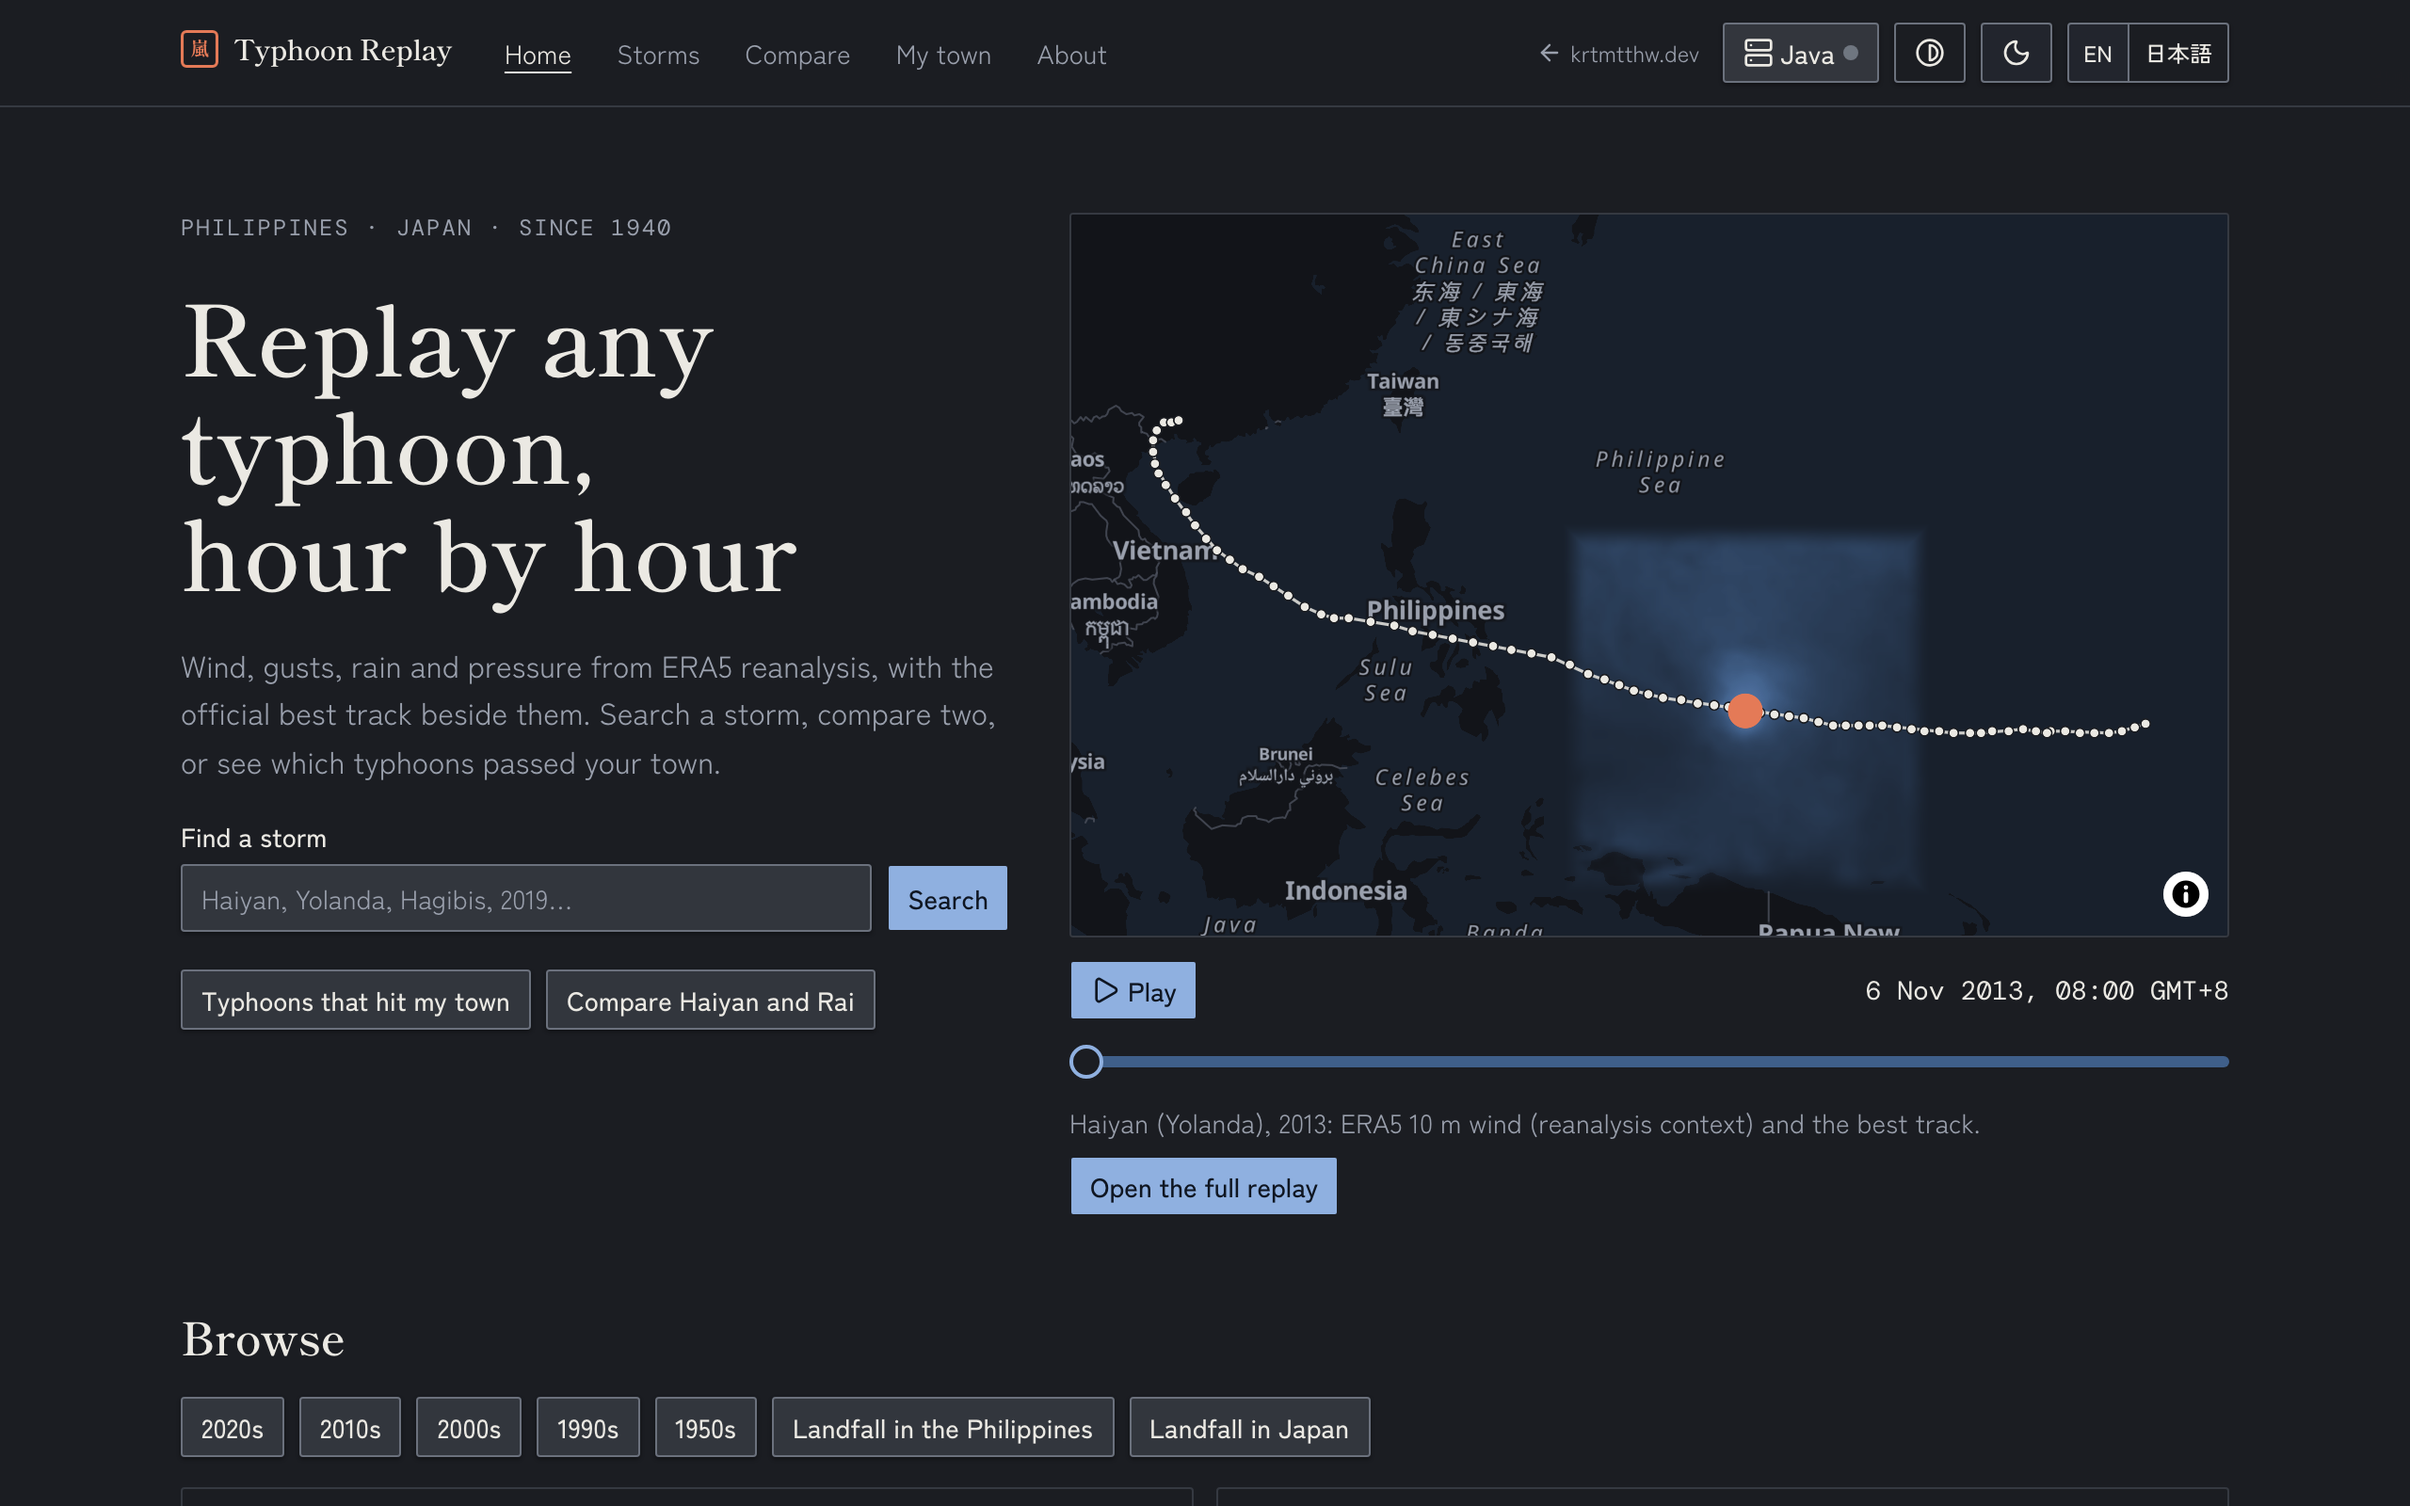
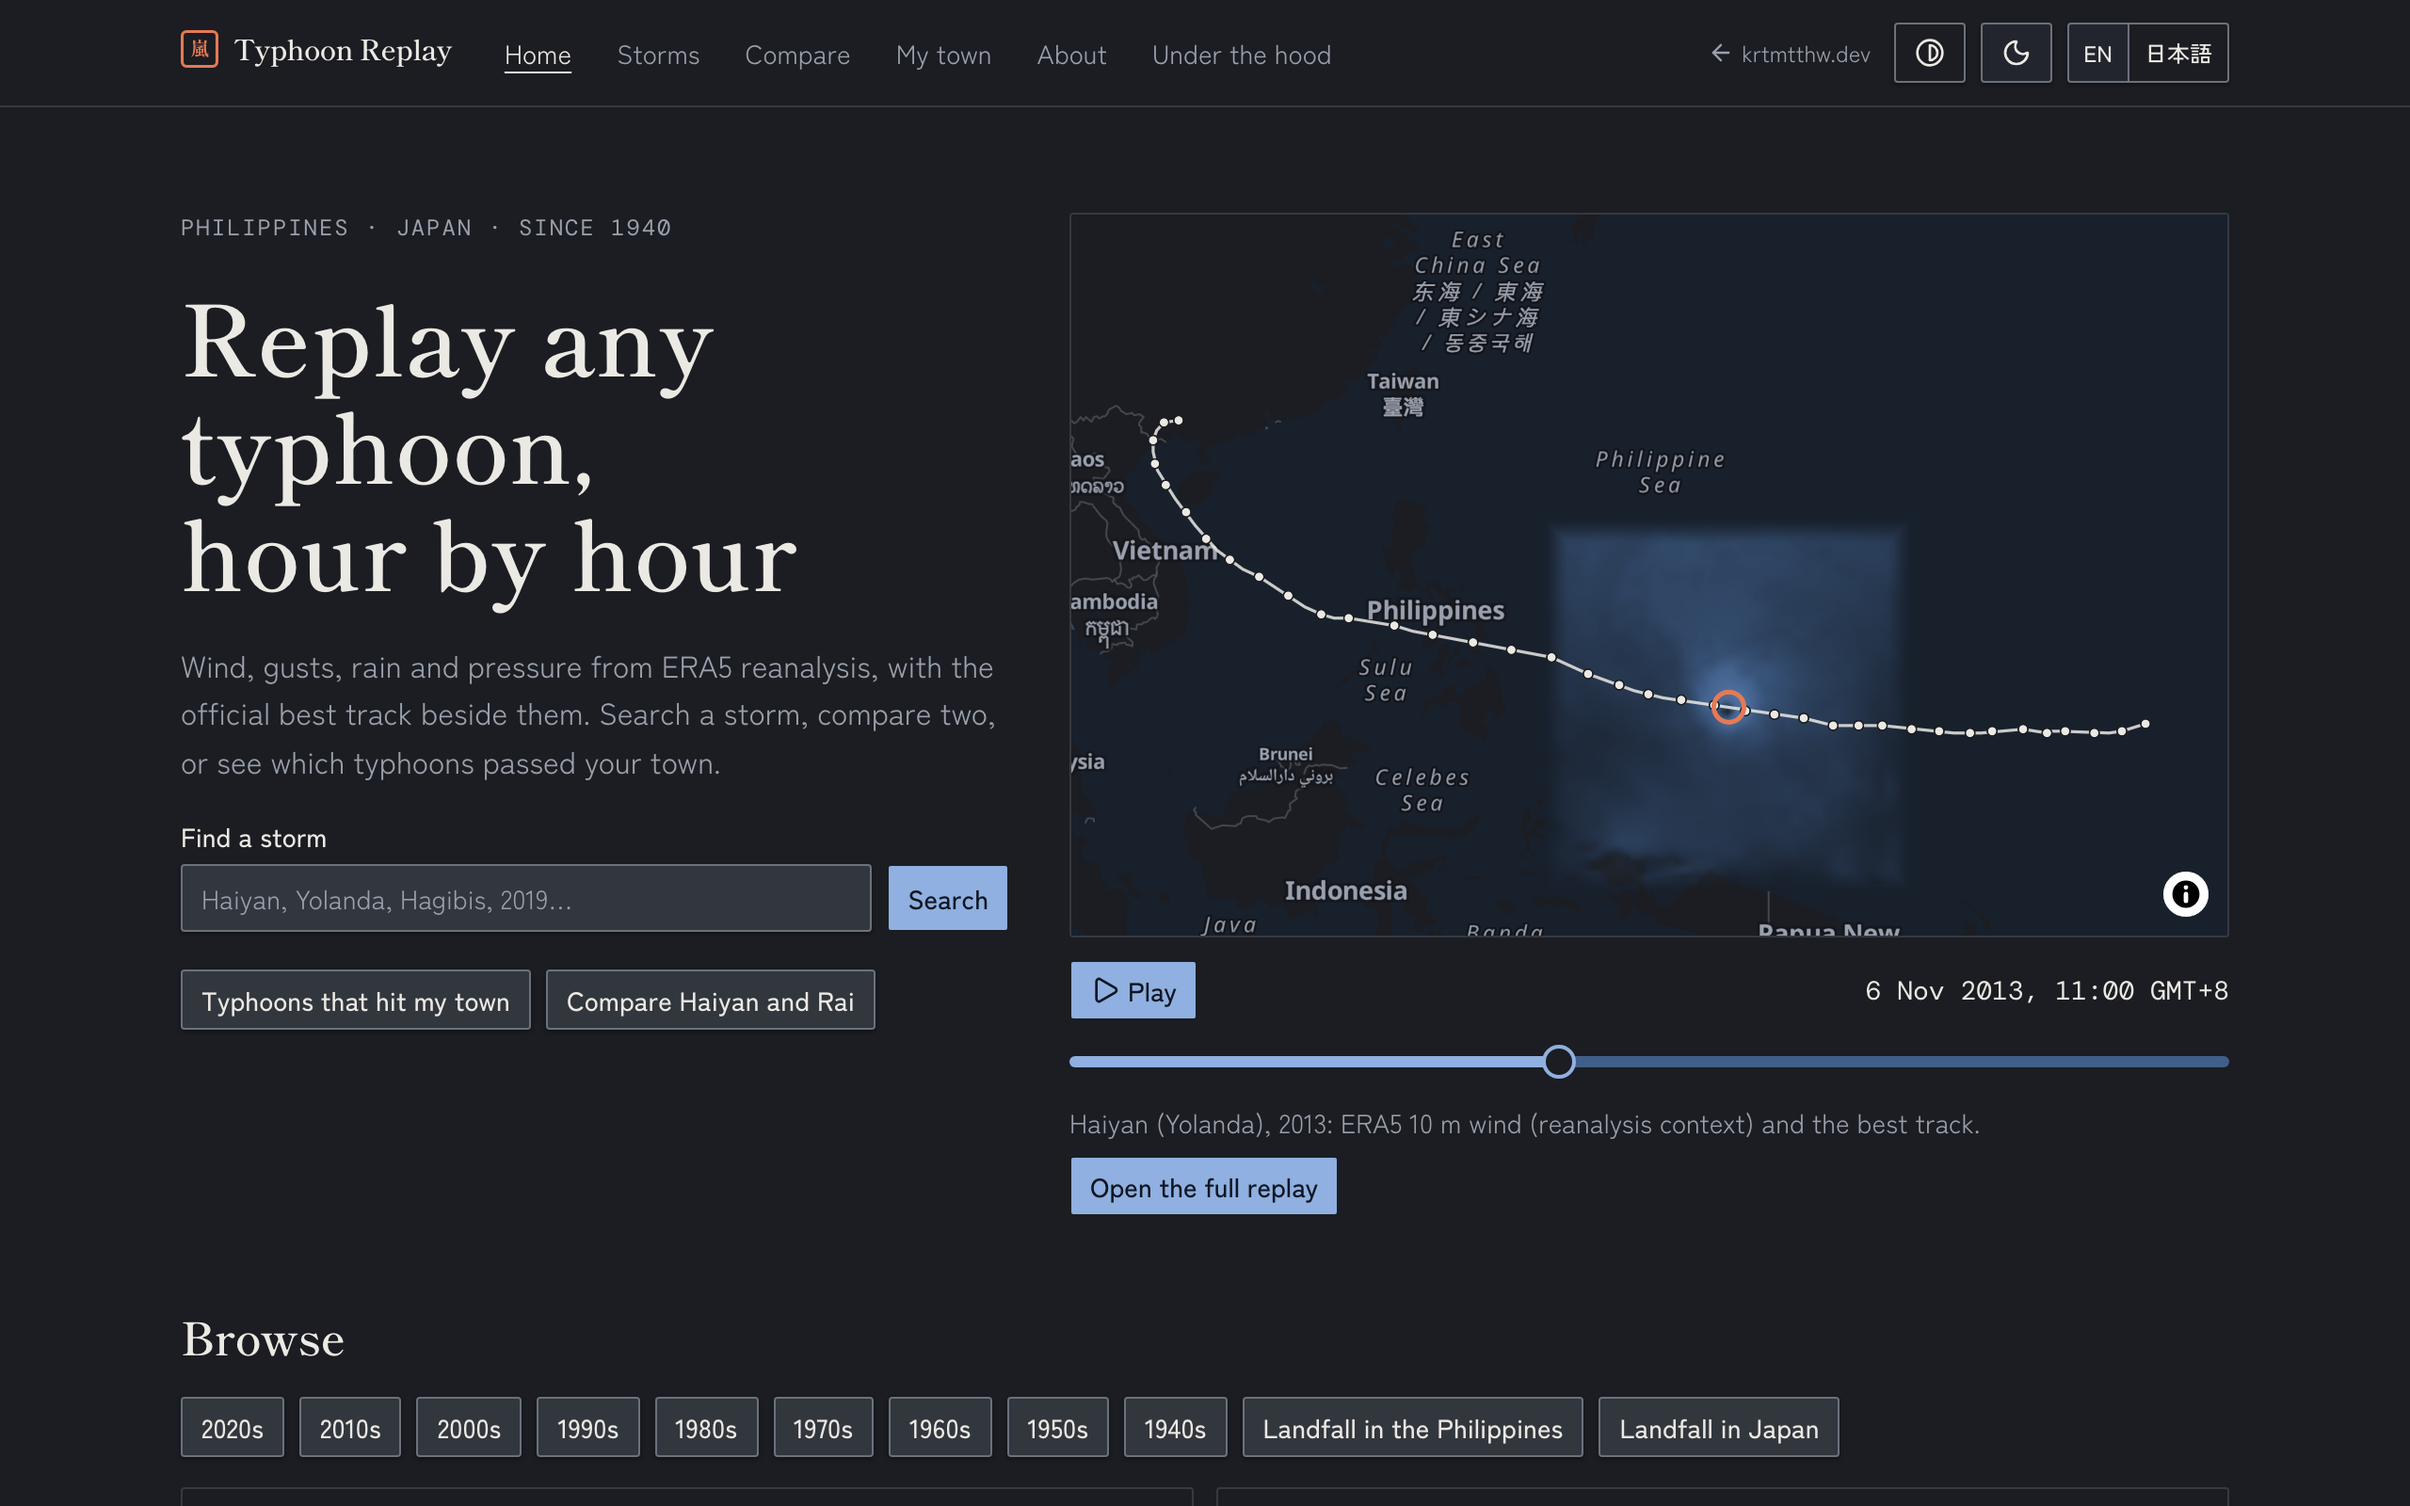
Home: feature Typhoon Replay inside Projects with one Live label; other projects in one row; card previews stack under the text; fresh Typhoon screenshots in the cool theme

diff --git a/tests/smoke.spec.ts b/tests/smoke.spec.ts
@@ -216,12 +216,16 @@ test.describe("home page", () => {
     await expect(main.getByText(/enterprise Java systems for Japanese banking clients/)).toBeVisible()
     await expect(main.getByRole("link", { name: "See the projects" })).toHaveAttribute("href", "#projects")
 
-    for (const name of ["Typhoon Replay", "Projects", "How I build", "What I build with"]) {
+    for (const name of ["Projects", "How I build", "What I build with"]) {
       await expect(main.getByRole("heading", { level: 2, name })).toBeVisible()
     }
 
-    const live = page.locator("#now-live")
+    // Typhoon Replay is the featured project inside Projects, with exactly one Live label.
+    const live = page.locator("#projects > #now-live")
+    await expect(live.getByRole("heading", { level: 3, name: "Typhoon Replay" })).toBeVisible()
     await expect(live.getByText("Status: Live")).toBeVisible()
+    await expect(main.getByText(/^Now live$/)).toHaveCount(0)
+    await expect(main.locator("section#now-live")).toHaveCount(0)
     await expect(live.getByRole("link", { name: /Open Typhoon Replay/ })).toHaveAttribute(
       "href",
       "https://typhoon.krtmtthw.dev",
@@ -259,7 +263,7 @@ test.describe("home page", () => {
     // The on-page index matches the sections.
     // (Hidden below lg, so located by CSS rather than role.)
     const index = page.locator('nav[aria-label="On this page"] a')
-    await expect(index).toHaveCount(4)
+    await expect(index).toHaveCount(3)
     for (const href of await index.evaluateAll((els) => els.map((e) => e.getAttribute("href")))) {
       await expect(page.locator(href!)).toHaveCount(1)
     }
@@ -268,11 +272,13 @@ test.describe("home page", () => {
   test("lists every project, in order, linking to its page with a status", async ({ page, request }) => {
     // Same list and order as /projects/.
     await page.goto("/projects/")
-    const expected = await page
+    let expected = await page
       .getByRole("main")
       .locator("li h2 a")
       .evaluateAll((els) => els.map((a) => [a.textContent!.trim(), a.getAttribute("href")!]))
     expect(expected.length).toBeGreaterThanOrEqual(4)
+    // Typhoon Replay is featured above the list, so the cards are every other project.
+    expected = expected.filter(([title]) => title !== "Typhoon Replay")
     await page.goto("/")
     const cards = page.locator("#projects > ul > li")
     await expect(cards).toHaveCount(expected.length)
@@ -290,7 +296,7 @@ test.describe("home page", () => {
     await expect(akari.locator("astro-island")).toHaveCount(1)
     await expect(akari.getByRole("link", { name: "See the living showcase →" })).toHaveAttribute("href", "/akari/")
     await expect(page.locator("#projects astro-island")).toHaveCount(1)
-    await expect(page.locator("#projects img")).toHaveCount(0)
+    await expect(page.locator("#projects > ul img")).toHaveCount(0)
   })
 
   test("the Akari preview hydrates only when visible, and works inside the card", async ({ page }) => {
